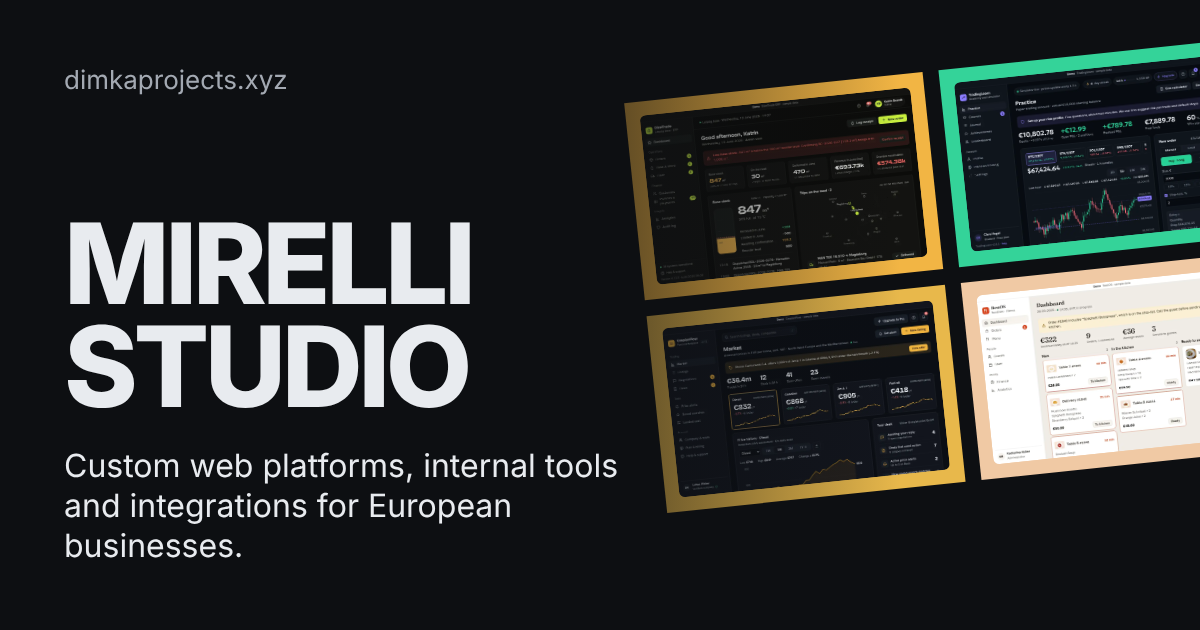
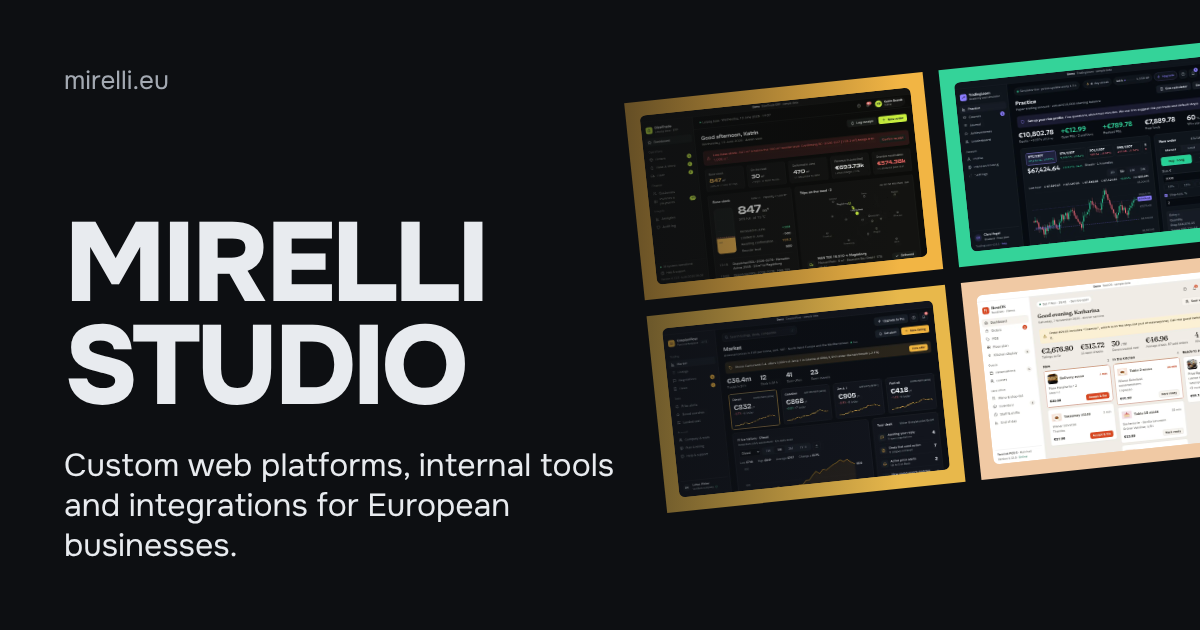
Move the site to mirelli.eu
- siteConfig, Caddyfile and contact CORS use mirelli.eu; demos live on <name>.mirelli.eu
- old dimkaprojects.xyz and its demo subdomains redirect permanently (contact endpoint stays for cached pages)
- demos allow framing by mirelli.eu; og.png regenerated with the new domain
- deploy/README: DNS, .env and deploy order for the move

Claude-Session: https://claude.ai/code/session_01BdAA5noh3B76WR9nfaAfXr

diff --git a/demos/cv/index.html b/demos/cv/index.html
@@ -170,7 +170,7 @@
 
   <!-- DEMO BANNER -->
   <div style="position:fixed;top:0;left:0;right:0;z-index:9999;background:#fdf4f7;border-bottom:1px solid rgba(219,39,119,0.1);padding:6px 16px;text-align:center;font-size:11px;color:#94a3b8;letter-spacing:0.08em;font-family:monospace;">
-    DEMO SITE &nbsp;&middot;&nbsp; <a href="https://dimkaprojects.xyz" style="color:#64748b;text-decoration:none;">dimkaprojects.xyz &#8599;</a>
+    DEMO SITE &nbsp;&middot;&nbsp; <a href="https://mirelli.eu" style="color:#64748b;text-decoration:none;">mirelli.eu &#8599;</a>
   </div>
 
   <!-- NAVBAR -->

diff --git a/tools/og.html b/tools/og.html
@@ -18,5 +18,5 @@ b{display:inline-block;background:#f2b544;color:#0d0f12;padding:10px 20px;font-s
 <span style="background:#e8b84b"><img src="../public/shots/caspianflow.webp"></span>
 <span style="background:#f0c9a4"><img src="../public/shots/restaurant.webp"></span>
 </div><div class="fade"></div>
-<div class="copy"><div class="tag">dimkaprojects.xyz</div>
+<div class="copy"><div class="tag">mirelli.eu</div>
 <div><h1>Mirelli<br>Studio</h1><p style="margin-top:28px">Custom web platforms, internal tools and integrations for European businesses.</p></div></div>

diff --git a/lib/data.ts b/lib/data.ts
@@ -1,7 +1,7 @@
 export const siteConfig = {
   name: "Mirelli Studio",
-  domain: "dimkaprojects.xyz",
-  url: "https://dimkaprojects.xyz",
+  domain: "mirelli.eu",
+  url: "https://mirelli.eu",
   email: "darian.mirelli@gmail.com",
   github: "https://github.com/DimkaQQ",
   telegram: "https://t.me/Dimka_Hum",

diff --git a/deploy/README.md b/deploy/README.md
@@ -12,3 +12,25 @@ to a new release. The live site only changes in the last steps, so a failed buil
 untouched. The contact endpoint is reloaded with pm2 and needs `server/contact/.env` once. The last five
 releases are kept in `/var/www/mirelli/releases`; to roll back, point `current` at an older one and
 `sudo systemctl reload caddy`.
+
+## Moving to mirelli.eu
+
+The site, the contact form and the nine demos now use `mirelli.eu` (demos on `<name>.mirelli.eu`). The old
+`dimkaprojects.xyz` and its subdomains answer with a permanent (301) redirect to the new addresses, and
+`bot.dimkaprojects.xyz` is left as it was. Do it in this order:
+
+1. **DNS first.** At the domain registrar point these records at the server's IP (A, plus AAAA if the server has IPv6):
+   `@`, `www`, and `dizeltrade`, `rentoworld`, `tradinglearn`, `shipter`, `storage`, `caspianflow`, `restaurant`,
+   `hr`, `botfactory` (or one wildcard `*`). Wait until `dig mirelli.eu` shows the server IP. Caddy cannot get
+   certificates before that.
+2. **Contact form origin.** On the server edit `server/contact/.env` (it is not in git) and set
+   `ALLOWED_ORIGINS=https://mirelli.eu,https://www.mirelli.eu,https://dimkaprojects.xyz`, otherwise the form is
+   rejected on the new domain.
+3. **Deploy:** `cd /opt/docker/showroom && git pull && ./deploy/deploy.sh`. The script validates the Caddyfile,
+   switches the release and reloads Caddy, which then requests the new certificates by itself.
+4. **Check:** open `https://mirelli.eu`, open one demo, send a test message through the form, and open
+   `https://dimkaprojects.xyz` (it must land on `https://mirelli.eu/`).
+5. **Search engines:** in Google Search Console add `mirelli.eu` and use "Change of address" from the old property.
+   The deploy script already tells IndexNow about the new URLs.
+
+Keep `dimkaprojects.xyz` renewed for a long time so links in sent e-mails keep working.
